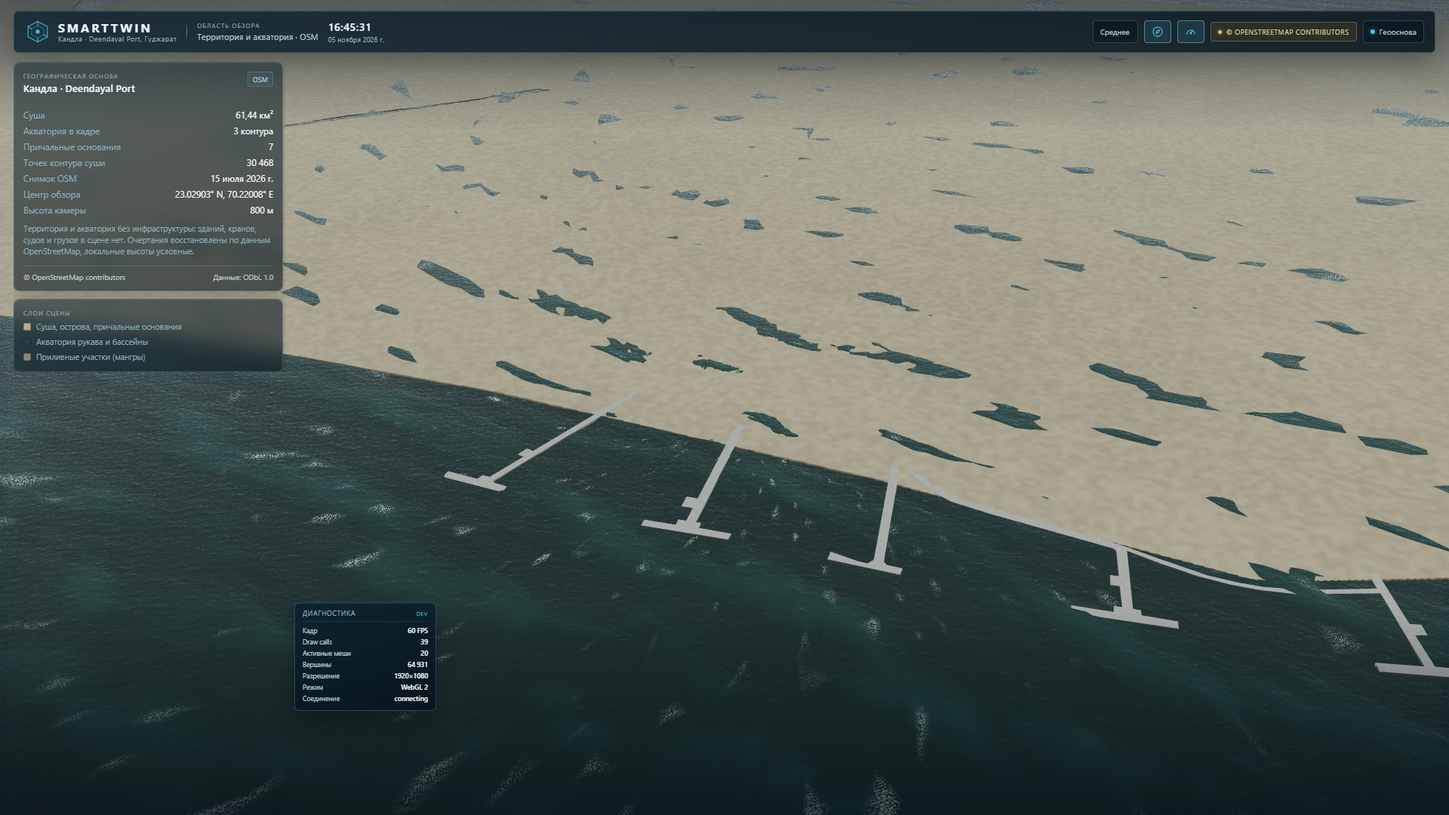
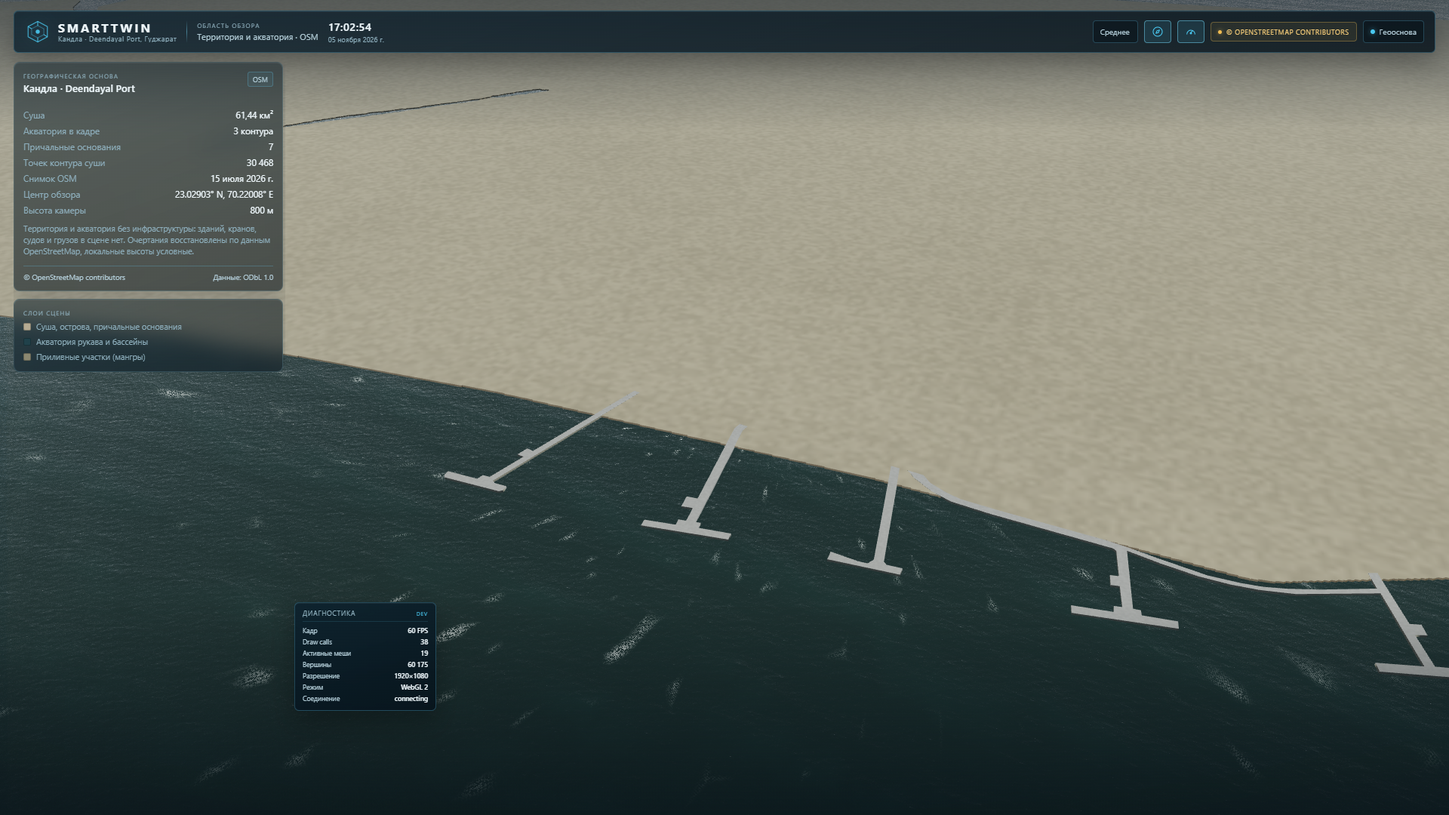
Земля и вода разделены.

diff --git a/client/src/scene/kandla/meshes.ts b/client/src/scene/kandla/meshes.ts
@@ -15,7 +15,7 @@ import earcut from "earcut";
 import "@babylonjs/core/Meshes/Builders/polygonBuilder";
 import "@babylonjs/core/Meshes/Builders/boxBuilder";
 
-import { KANDLA_COLORS, KANDLA_HEIGHTS, KANDLA_SHALLOWS } from "./config";
+import { KANDLA_COLORS, KANDLA_HEIGHTS } from "./config";
 import type { IntertidalPolygon, KandlaLayers, LandPolygon, PierItem, Ring } from "./layers";
 import { bankTint } from "./materials";
 import type { KandlaMaterials } from "./materials";
@@ -27,7 +27,6 @@ export interface KandlaGroundStats {
   quayMeshes: number;
   quayTriangles: number;
   intertidalMeshes: number;
-  shallowTriangles: number;
   /** Площадь суши по данным слоя, км². */
   landAreaKm2: number;
 }
@@ -65,108 +64,6 @@ function applySideTint(mesh: Mesh, tint: Color3): void {
   mesh.hasVertexAlpha = false;
 }
 
-/** Сглаживание кольца: контур воды идёт по сетке 1,5 м и «лестницей». */
-function smoothRing(ring: Ring[], window: number): Ring[] {
-  const count = ring.length;
-  const result: Ring[] = [];
-  for (let index = 0; index < count; index += 1) {
-    let sumX = 0;
-    let sumZ = 0;
-    for (let offset = -window; offset <= window; offset += 1) {
-      const point = ring[(index + offset + count) % count];
-      sumX += point[0];
-      sumZ += point[1];
-    }
-    const divisor = window * 2 + 1;
-    result.push([sumX / divisor, sumZ / divisor]);
-  }
-  return result;
-}
-
-/**
- * Полоса отмели вдоль кромки воды. Строится по контуру акватории, поэтому
- * совпадает с берегом по построению, а не «примерно». Кромка сглажена: контур
- * воды — растр по сетке 1,5 м, и на нём полоса шла бы ступеньками.
- */
-export function buildShallowBand(
-  scene: Scene,
-  waterPolygons: { outer: Ring[] }[],
-  bounds: { x0: number; x1: number; z0: number; z1: number },
-  material: KandlaMaterials["shallow"],
-): { mesh: Mesh | null; triangles: number } {
-  const positions: number[] = [];
-  const indices: number[] = [];
-  const height = KANDLA_SHALLOWS.height;
-  const width = KANDLA_SHALLOWS.width;
-  const border = 4;
-
-  for (const polygon of waterPolygons) {
-    if (polygon.outer.length < 8) continue;
-    const smoothed = smoothRing(polygon.outer, 3);
-    // Прореживание: шаг ~4 точки контура (около 6 м) — форма уже сглажена.
-    const ring = smoothed.filter((_, index) => index % 4 === 0);
-    if (ring.length < 6) continue;
-
-    let area = 0;
-    for (let i = 0, j = ring.length - 1; i < ring.length; j = i, i += 1) {
-      area += ring[j][0] * ring[i][1] - ring[i][0] * ring[j][1];
-    }
-    // Положительная площадь — обход против часовой стрелки, вода слева от
-    // направления обхода; иначе — справа.
-    const waterOnLeft = area > 0;
-    const nearEdge = (point: Ring): boolean =>
-      Math.abs(point[0] - bounds.x0) < border ||
-      Math.abs(point[0] - bounds.x1) < border ||
-      Math.abs(point[1] - bounds.z0) < border ||
-      Math.abs(point[1] - bounds.z1) < border;
-    const count = ring.length;
-    for (let index = 0; index < count; index += 1) {
-      const current = ring[index];
-      const next = ring[(index + 1) % count];
-      const previous = ring[(index - 1 + count) % count];
-      // Края прямоугольника съёмки — не берег: полосу там не рисуем.
-      if (nearEdge(current) && nearEdge(next)) continue;
-      // Направление берега — по соседям, чтобы у сглаженной кромки не было
-      // изломов на каждой точке.
-      const tangentX = next[0] - previous[0];
-      const tangentZ = next[1] - previous[1];
-      const tangent = Math.hypot(tangentX, tangentZ);
-      if (tangent < 0.001) continue;
-      const normalX = waterOnLeft ? -tangentZ / tangent : tangentZ / tangent;
-      const normalZ = waterOnLeft ? tangentX / tangent : -tangentX / tangent;
-
-      const base = positions.length / 3;
-      positions.push(
-        current[0], height, current[1],
-        next[0], height, next[1],
-        next[0] + normalX * width, height, next[1] + normalZ * width,
-        current[0] + normalX * width, height, current[1] + normalZ * width,
-      );
-      indices.push(base, base + 1, base + 2, base, base + 2, base + 3);
-    }
-  }
-
-  if (positions.length === 0) {
-    return { mesh: null, triangles: 0 };
-  }
-
-  const mesh = new Mesh("kandla-shallow", scene);
-  const normals = new Float32Array(positions.length);
-  for (let index = 1; index < normals.length; index += 3) {
-    normals[index] = 1;
-  }
-  mesh.setVerticesData("position", new Float32Array(positions), false, 3);
-  mesh.setVerticesData("normal", normals, false, 3);
-  mesh.setIndices(indices);
-  mesh.material = material;
-  mesh.isPickable = false;
-  mesh.receiveShadows = false;
-  mesh.alwaysSelectAsActiveMesh = true;
-  applyWorldUv(mesh, 70);
-  mesh.computeWorldMatrix(true);
-  return { mesh, triangles: indices.length / 3 };
-}
-
 /**
  * UV в мировых метрах: у полигонального билдера UV нормированы на габарит
  * меша, из-за чего плитка резиновая на объектах разного размера. Пишем
@@ -183,6 +80,7 @@ function applyWorldUv(mesh: Mesh, metresPerRepeat: number): void {
   mesh.setVerticesData("uv", uvs, false, 2);
 }
 
+/** Площадь кольца в м²: нужна, чтобы крупные материки строились первыми. */
 function areaOf(ring: Ring[]): number {
   let area = 0;
   for (let i = 0, j = ring.length - 1; i < ring.length; j = i, i += 1) {
@@ -262,7 +160,9 @@ export function buildQuayMeshes(
       `kandla-pier-${index}`,
       {
         shape: toVector3(pier.coords),
-        depth: KANDLA_HEIGHTS.quay + 1.1,
+        // Глубина с запасом: низ пирса должен быть ниже впадин волн, иначе
+        // между основанием и водой появляется щель и пирс «висит».
+        depth: KANDLA_HEIGHTS.quay + 2.4,
         sideOrientation: Mesh.FRONTSIDE,
         updatable: false,
       },
@@ -284,10 +184,14 @@ export function buildQuayMeshes(
       if (length < 1) continue;
       const box = MeshBuilder.CreateBox(
         `kandla-open-pier-${index}-${i}`,
-        { width: openWidth, depth: length + openWidth, height: KANDLA_HEIGHTS.quay + 1 },
+        { width: openWidth, depth: length + openWidth, height: KANDLA_HEIGHTS.quay + 2.4 },
         scene,
       );
-      box.position.set((x1 + x2) / 2, KANDLA_HEIGHTS.quay - (KANDLA_HEIGHTS.quay + 1) / 2, (z1 + z2) / 2);
+      box.position.set(
+        (x1 + x2) / 2,
+        KANDLA_HEIGHTS.quay - (KANDLA_HEIGHTS.quay + 2.4) / 2,
+        (z1 + z2) / 2,
+      );
       box.rotation.y = -Math.atan2(z2 - z1, x2 - x1);
       add(box, 22, QUAY_TINT);
     }
@@ -301,10 +205,11 @@ export function buildQuayMeshes(
       if (length < 1) continue;
       const box = MeshBuilder.CreateBox(
         `kandla-breakwater-${index}-${i}`,
-        { width: 18, depth: length + 12, height: 2.2 },
+        // Волнолом стоит в воде: высота с запасом ниже впадин волн.
+        { width: 18, depth: length + 12, height: 3.8 },
         scene,
       );
-      box.position.set((x1 + x2) / 2, 0.5, (z1 + z2) / 2);
+      box.position.set((x1 + x2) / 2, 0.3, (z1 + z2) / 2);
       box.rotation.y = -Math.atan2(z2 - z1, x2 - x1);
       add(box, 22);
     }
@@ -346,13 +251,6 @@ export function buildKandlaGround(
   const land = buildLandMeshes(scene, layers.land, materials.land);
   const quay = buildQuayMeshes(scene, layers.quay, materials.quay);
   const intertidal = buildIntertidalMeshes(scene, layers.intertidal, materials.intertidal);
-  // Полоса отмели строится по контуру акватории — она всегда на месте берега.
-  const shallow = buildShallowBand(
-    scene,
-    layers.water.polygons,
-    layers.meta.bounds,
-    materials.shallow,
-  );
 
   const landAreaKm2 = layers.land.reduce((sum, polygon) => sum + polygon.areaKm2, 0);
 
@@ -364,14 +262,8 @@ export function buildKandlaGround(
       quayMeshes: quay.meshes.length,
       quayTriangles: quay.triangles,
       intertidalMeshes: intertidal.meshes.length,
-      shallowTriangles: shallow.triangles,
       landAreaKm2: +landAreaKm2.toFixed(2),
     },
-    meshes: [
-      ...land.meshes,
-      ...quay.meshes,
-      ...intertidal.meshes,
-      ...(shallow.mesh ? [shallow.mesh] : []),
-    ],
+    meshes: [...land.meshes, ...quay.meshes, ...intertidal.meshes],
   };
 }

diff --git a/client/src/scene/kandla/config.ts b/client/src/scene/kandla/config.ts
@@ -43,14 +43,18 @@ export const KANDLA_LAYER_BASE = `${import.meta.env.BASE_URL}geo/kandla/`;
  * Это не отметки геодезической сети и не глубины.
  */
 export const KANDLA_HEIGHTS = {
-  /** Верх суши, м над водой. */
-  land: 1.6,
+  /**
+   * Верх суши, м над водой. Выше, чем в первой версии (1,6), намеренно: волны в
+   * рукаве поднимаются примерно на метр, и низкая плита оказывалась под водой —
+   * суша «плавала» в кадре. Запас над гребнем обязателен.
+   */
+  land: 2.6,
   /** Верх подтверждённого причального основания. */
-  quay: 1.75,
-  /** Приливные участки (мангры): чуть выше воды. */
-  intertidal: 1.15,
+  quay: 2.75,
+  /** Приливные участки (мангры): ниже суши, но выше гребней волн. */
+  intertidal: 2.0,
   /** Насколько плита суши уходит под воду — чтобы не было щели у берега. */
-  slabDepth: 2.6,
+  slabDepth: 4.4,
 } as const;
 
 export const KANDLA_COLORS = {
@@ -64,8 +68,6 @@ export const KANDLA_COLORS = {
   fog: "#c9d6dd",
   /** Влажная стенка берега: сторона плиты у воды. */
   bank: "#7e7565",
-  /** Отмель: полоса мутной воды вдоль берега. */
-  shallow: "#b9b7a1",
 } as const;
 
 /**
@@ -77,7 +79,7 @@ export const KANDLA_HOME = {
   alpha: -1.3,
   beta: 0.8,
   radius: 3000,
-  target: { x: 120, y: 1.6, z: 800 },
+  target: { x: 120, y: KANDLA_HEIGHTS.land, z: 800 },
 } as const;
 
 export const KANDLA_CAMERA_LIMITS = {
@@ -92,27 +94,23 @@ export const KANDLA_CAMERA_LIMITS = {
 
 /** Настройки воды для рукава: волна короче и тише, чем в открытом море. */
 export const KANDLA_WATER = {
-  windSpeed: 3.8,
-  waveGain: 0.42,
-  rippleStrength: 0.36,
-  reflectionStrength: 0.52,
+  windSpeed: 3.4,
+  /**
+   * Геометрическая волна. Смещение из FFT — до ~9 м, множитель переводит его в
+   * метры: 0,1 даёт гребни около метра. Много больше нельзя — вода начинает
+   * перехлёстывать через берег. Рябь при этом задаётся не смещением, а наклоном
+   * поверхности, поэтому вода остаётся живой.
+   */
+  waveGain: 0.1,
+  rippleStrength: 0.32,
+  // Отражения приглушены намеренно: в рукаве они зеркалят песчаные берега, и
+  // суша начинает «плавать» в воде. Вода должна оставаться водой, а берег —
+  // берегом.
+  reflectionStrength: 0.3,
   /** Линия причала в демо-модуле не имеет смысла в рукаве: пену у берега гасим. */
   shoreFoam: 0,
   /** Мутная вода рукава: зеленовато-серый, а не морской синий. */
   deepColorHex: "#23403c",
 } as const;
 
-/**
- * Отмель вдоль берега. В рукаве вода у кромки светлеет от ила, и это главный
- * признак, по которому берег читается сверху: без полосы суша и вода сходятся
- * «по линейке». Полоса строится по контуру воды, приподнята над гребнями волн
- * и полупрозрачна — это оттенок воды, а не плёнка на ней.
- */
-export const KANDLA_SHALLOWS = {
-  /** Ширина полосы в воду, м. */
-  width: 26,
-  /** Высота над водой, м: выше волн, чтобы вода не резала полосу. */
-  height: 0.9,
-  /** Прозрачность: полоса должна читаться как вода, а не как плёнка. */
-  alpha: 0.26,
-} as const;
+

diff --git a/client/src/scene/kandla/materials.ts b/client/src/scene/kandla/materials.ts
@@ -12,14 +12,12 @@ import { StandardMaterial } from "@babylonjs/core/Materials/standardMaterial";
 import { Color3 } from "@babylonjs/core/Maths/math.color";
 import type { Scene } from "@babylonjs/core/scene";
 
-import { KANDLA_COLORS, KANDLA_SHALLOWS } from "./config";
+import { KANDLA_COLORS } from "./config";
 
 export interface KandlaMaterials {
   land: StandardMaterial;
   quay: StandardMaterial;
   intertidal: StandardMaterial;
-  /** Полоса мутной воды вдоль берега. */
-  shallow: StandardMaterial;
   dispose(): void;
 }
 
@@ -143,35 +141,17 @@ export function createKandlaMaterials(scene: Scene): KandlaMaterials {
   intertidal.ambientColor = new Color3(0.18, 0.18, 0.17);
   intertidal.backFaceCulling = false;
 
-  // Отмель: полупрозрачная полоса воды у берега. Свет и туман общие со сценой,
-  // иначе у горизонта полоса выпадала бы из дымки.
-  const shallowTexture = tile(
-    createGrainTexture(scene, "kandla-shallow-grain", KANDLA_COLORS.shallow, 0.05),
-    70,
-  );
-  const shallow = new StandardMaterial("kandla-shallow", scene);
-  shallow.diffuseTexture = shallowTexture;
-  shallow.diffuseColor = Color3.White();
-  shallow.specularColor = new Color3(0.02, 0.02, 0.02);
-  shallow.ambientColor = new Color3(0.2, 0.2, 0.19);
-  shallow.alpha = KANDLA_SHALLOWS.alpha;
-  shallow.backFaceCulling = false;
-  shallow.disableDepthWrite = true;
-
   return {
     land,
     quay,
     intertidal,
-    shallow,
     dispose(): void {
       landTexture.dispose();
       quayTexture.dispose();
       intertidalTexture.dispose();
-      shallowTexture.dispose();
       land.dispose();
       quay.dispose();
       intertidal.dispose();
-      shallow.dispose();
     },
   };
 }

diff --git a/client/src/scene/kandla/KandlaScene.ts b/client/src/scene/kandla/KandlaScene.ts
@@ -259,6 +259,8 @@ export class KandlaScene implements SceneHandle {
         mode: "kandla",
         geo: frame,
         layers,
+        // Высоты уровней: проверки берут их отсюда, чтобы не дублировать числа.
+        heights: KANDLA_HEIGHTS,
         // Проверки в браузере: сколько мешей, где суша, где вода.
         info: () => instance.getInfo(),
         cameraGeo: () => instance.getCameraGeo(),

diff --git a/client/geo/README.md b/client/geo/README.md
@@ -88,7 +88,7 @@ npm run geo:prepare   # слои в public/geo/kandla из снимка
   `quay.front` — участок береговой линии между крайними причальными
   сооружениями. Это вывод из данных, а не отдельный объект OSM.
 - **Нет отметок высот и глубин.** Высоты поверхности в сцене условные: суша
-  1,6 м над водой, причальные основания 1,75 м, приливные участки 1,15 м. Это
+  2,6 м над водой, причальные основания 2,75 м, приливные участки 2,0 м. Это
   не геодезические отметки и не глубины.
 - **Нет линии уреза и приливов.** Уровень воды в сцене — ноль, как и в
   демо-терминале; приливный размах не моделируется.
@@ -103,7 +103,7 @@ npm run geo:prepare   # слои в public/geo/kandla из снимка
 ## Допущения
 
 1. Территория плоская: рельеф, откосы и дамбы не моделируются.
-2. Плита суши уходит под воду на 2,6 м, чтобы у берега не было щели; это
+2. Плита суши уходит под воду на 4,4 м, чтобы у берега не было щели; это
    геометрическая хитрость, а не батиметрия.
 3. Причальные площадки стоят над водой: в маске суши их нет, поэтому вода под
    пирсами сохраняется.
@@ -113,11 +113,13 @@ npm run geo:prepare   # слои в public/geo/kandla из снимка
 6. `origin` — удобное начало отсчёта, а не граница порта и не конкретный
    причал. Границы области съёмки тоже не являются юридическими границами
    порта.
-7. **Стенка берега и полоса отмели — оформление, а не данные.** Стенка плиты
-   темнее её верха (вершинный цвет), полоса мутной воды вдоль кромки шириной
-   26 м строится по контуру акватории. Исходная карта ничего не говорит ни о
-   влажности берега, ни о ширине отмели: это подсказки для глаза, и в метрах
-   они условны.
+7. **Стенка берега темнее суши — это оформление, а не данные.** Вершинный цвет
+   подчёркивает кромку; исходная карта ничего не говорит о влажности берега.
+8. **Волна укорочена относительно демо-терминала.** Смещение из FFT в рукаве
+   достигает ≈9 м; множитель `waveGain: 0,1` переводит его в гребни около метра.
+   Иначе вода перехлёстывала бы через двухметровую сушу и берег «плавал» бы в
+   кадре: суша и вода должны оставаться раздельными. Рябь при этом задаётся
+   наклоном поверхности, а не смещением, поэтому вода не выглядит стоячей.
 
 ## Проверки
 

diff --git a/README.md b/README.md
@@ -28,7 +28,7 @@
 | Причальный фронт и основания причалов | `man_made=pier` (замкнутые контуры становятся надводными площадками), открытые причалы и волноломы — по линиям; `man_made=quay` в этой области OSM отсутствует |
 | Приливные участки | `natural=wetland` + `wetland=mangrove` |
 
-Кромка берега держится не только контуром: стенка плиты темнее её верха, а вдоль берега идёт полоса мутной воды. Это оформление, а не данные — ширина полосы (26 м) условна.
+Кромка берега держится не только контуром: стенка плиты темнее её верха, поэтому берег видно и с воды. Высоты условные и подобраны так, чтобы вода не перехлёстывала через сушу: 2,6 м у суши, 2,75 м у причальных оснований, 2,0 м у мангровых отмелей. Это оформление, а не данные.
 
 Как это устроено:
 
